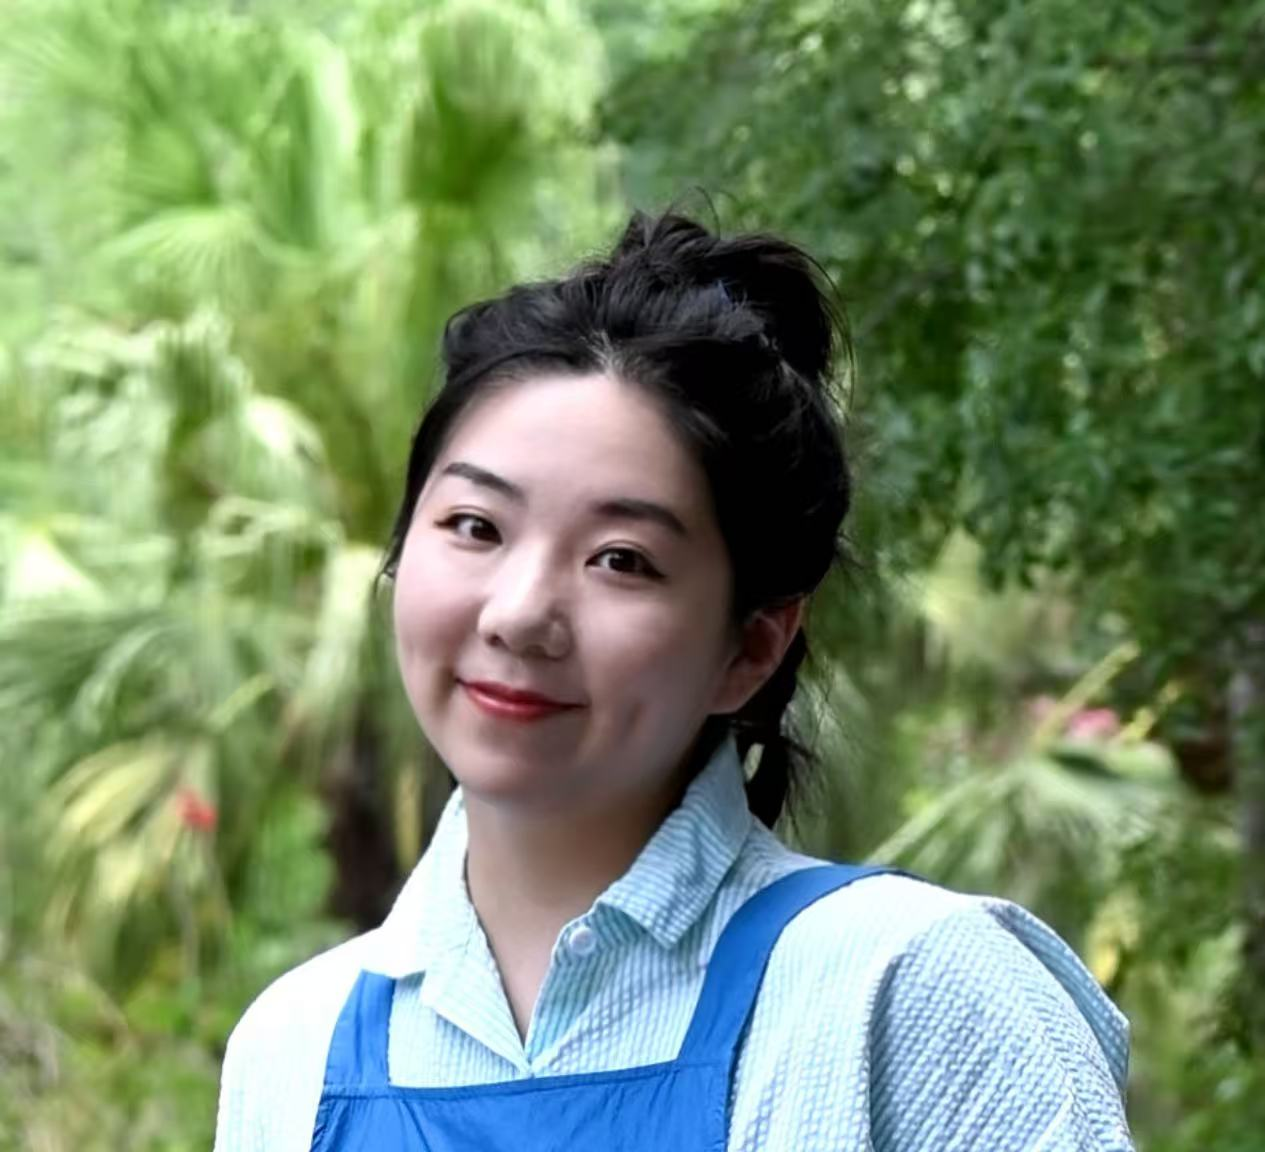
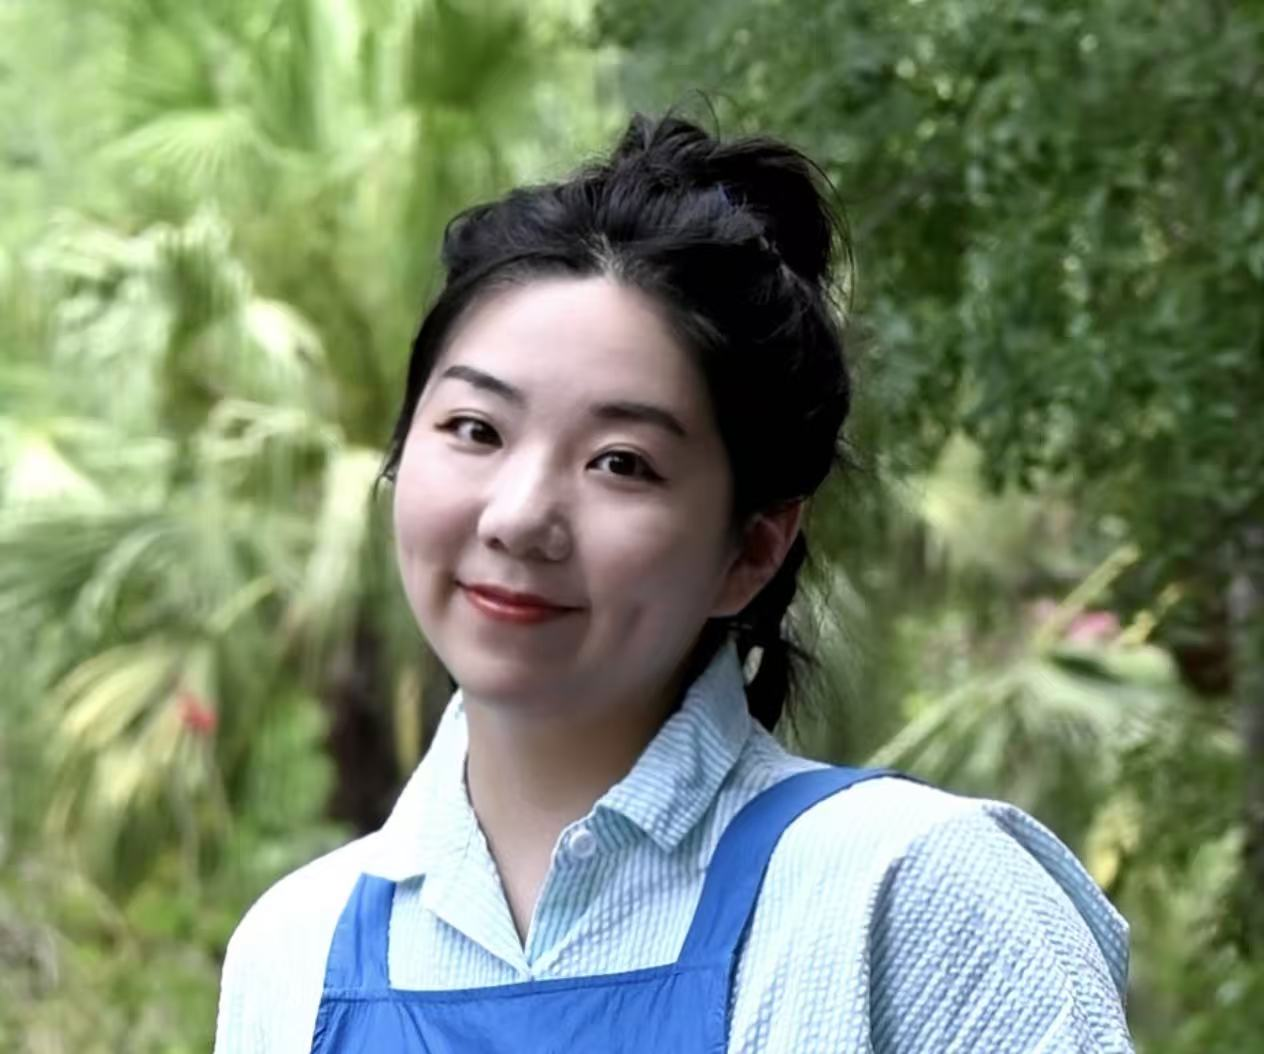
Mingxin_Photo2

diff --git a/docs/member/index.html b/docs/member/index.html
@@ -639,7 +639,7 @@
                             
                                 <div class="people-widget">
                                     
-                                        <img class="portrait" src="/authors/25_mingxin/avatar_huab2e416123a9bf99d6a7679e5da4634d_123840_150x150_fill_lanczos_center_2.png" alt="Avatar">
+                                        <img class="portrait" src="/authors/25_mingxin/avatar_hu9f8c0159c0d9a63d96e42e7c038ebac6_112112_150x150_fill_lanczos_center_2.png" alt="Avatar">
                                     
                                 </div>
                             

diff --git a/docs/authors/25_mingxin/index.html b/docs/authors/25_mingxin/index.html
@@ -398,7 +398,7 @@
 
       
       
-      <img class="portrait" src="/authors/25_mingxin/avatar_huab2e416123a9bf99d6a7679e5da4634d_123840_250x250_fill_lanczos_center_2.png" alt="Avatar">
+      <img class="portrait" src="/authors/25_mingxin/avatar_hu9f8c0159c0d9a63d96e42e7c038ebac6_112112_250x250_fill_lanczos_center_2.png" alt="Avatar">
       
 
       <div class="portrait-title">
